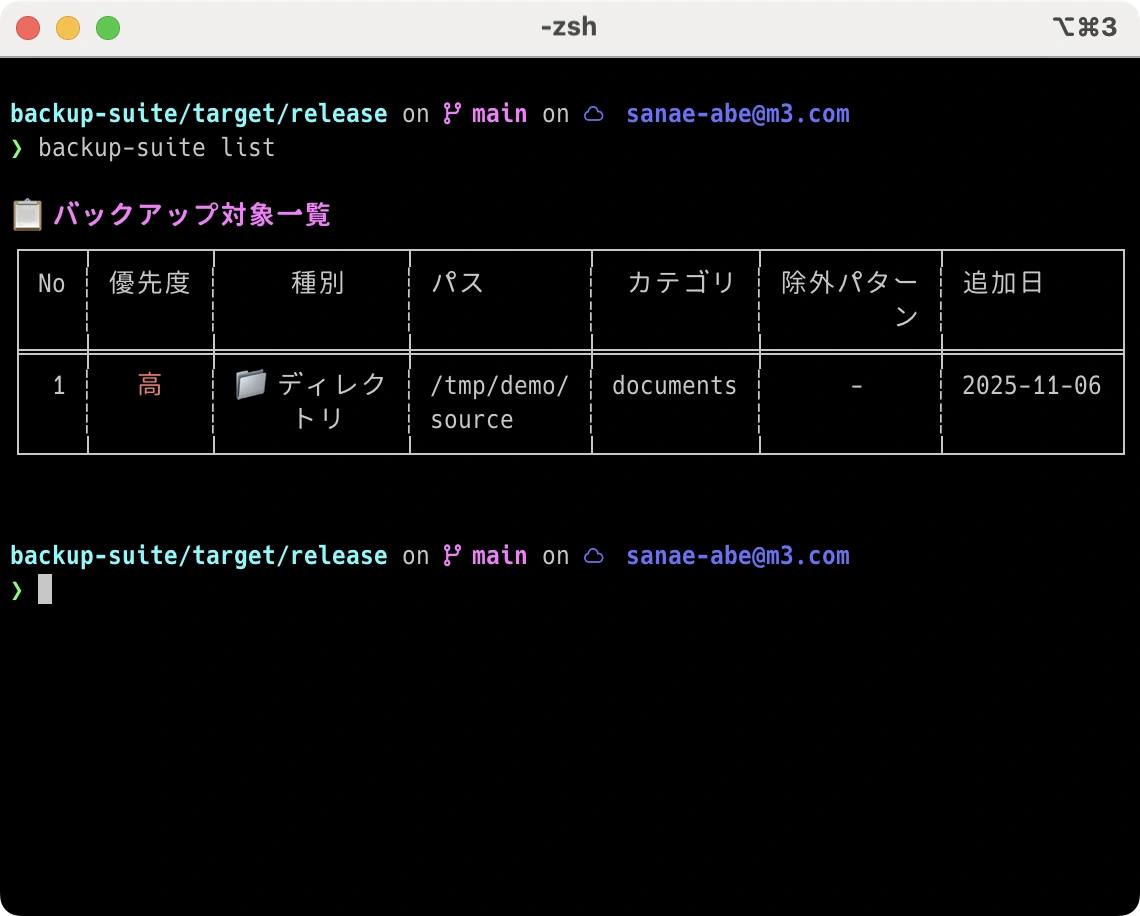
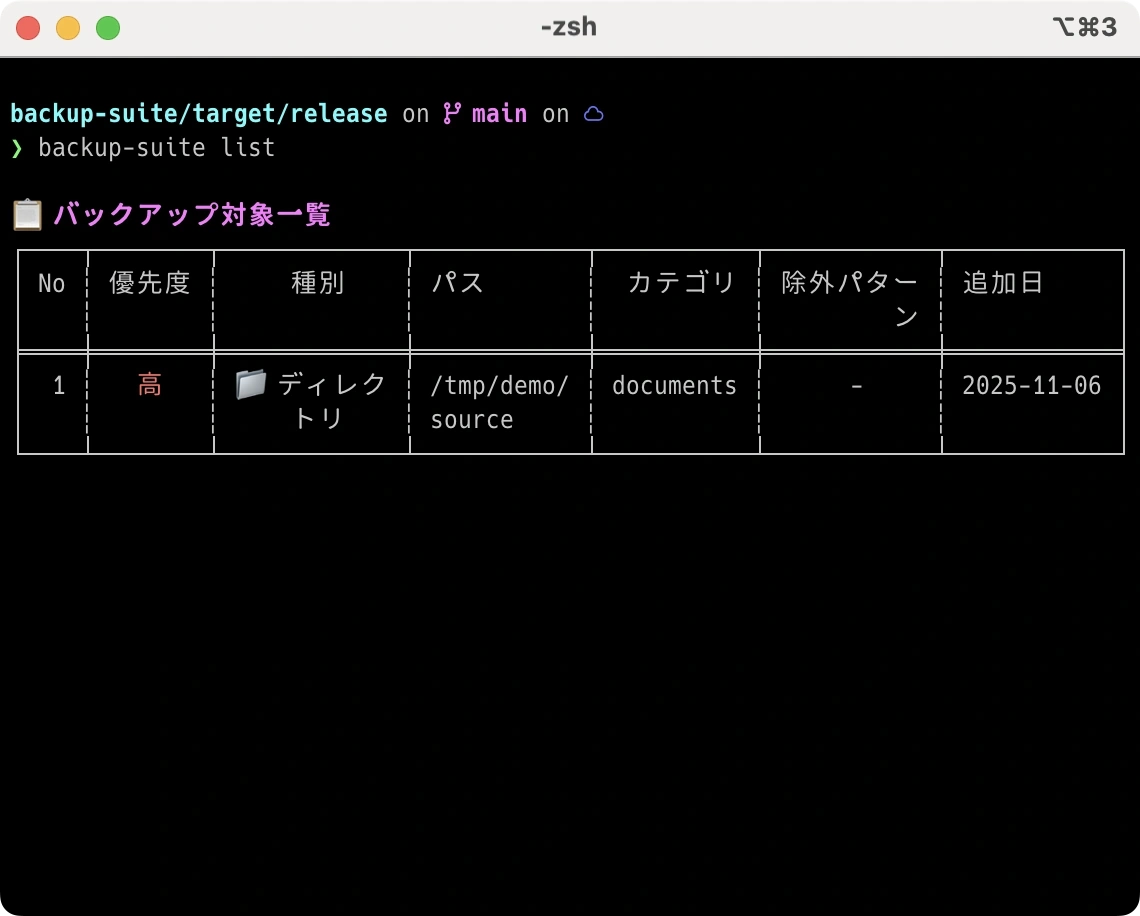
chore: スクリーンショット再更新 + rustfmt最適化
- スクリーンショット全更新（会社情報完全削除）
- WebP高品質変換（-q 95）
- rustfmt.tomlをstable版専用に簡略化

🤖 Generated with [Claude Code](https://claude.com/claude-code)

diff --git a/benches/backup_performance.rs b/benches/backup_performance.rs
@@ -4,16 +4,16 @@
 //! Criterionを使用して、継続的な性能監視と回帰検出を行います。
 
 use criterion::{black_box, criterion_group, criterion_main, BenchmarkId, Criterion, Throughput};
-use std::fs::{File, create_dir_all};
+use std::fs::{create_dir_all, File};
 use std::io::Write;
 use std::path::{Path, PathBuf};
 use tempfile::TempDir;
 
 use backup_suite::{
-    BackupRunner, Config, Target, Priority,
-    security::{safe_join, validate_path_safety},
     core::{CopyEngine, FileFilter},
+    security::{safe_join, validate_path_safety},
     ui::BackupProgress,
+    BackupRunner, Config, Priority, Target,
 };
 
 /// テストファイル作成ヘルパー
@@ -77,10 +77,11 @@ fn bench_file_copy(c: &mut Criterion) {
                     // 前回のコピー結果を削除
                     let _ = std::fs::remove_file(&dest);
 
-                    black_box(copy_engine.copy_file(
-                        black_box(&source),
-                        black_box(&dest)
-                    ).unwrap())
+                    black_box(
+                        copy_engine
+                            .copy_file(black_box(&source), black_box(&dest))
+                            .unwrap(),
+                    )
                 });
             },
         );
@@ -114,19 +115,12 @@ fn bench_parallel_backup(c: &mut Criterion) {
                 let mut config = Config::default();
                 config.backup.destination = backup_dir;
 
-                let target = Target::new(
-                    source_dir,
-                    Priority::High,
-                    "test".to_string()
-                );
+                let target = Target::new(source_dir, Priority::High, "test".to_string());
                 config.add_target(target);
 
-                let runner = BackupRunner::new(config, false)
-                    .with_progress(false); // ベンチマーク中はプログレス無効
+                let runner = BackupRunner::new(config, false).with_progress(false); // ベンチマーク中はプログレス無効
 
-                b.iter(|| {
-                    black_box(runner.run(None, None).unwrap())
-                });
+                b.iter(|| black_box(runner.run(None, None).unwrap()));
             },
         );
     }
@@ -143,12 +137,7 @@ fn bench_security_features(c: &mut Criterion) {
         let base = Path::new("/safe/backup/dir");
         let child = Path::new("documents/file.txt");
 
-        b.iter(|| {
-            black_box(safe_join(
-                black_box(base),
-                black_box(child)
-            ).unwrap())
-        });
+        b.iter(|| black_box(safe_join(black_box(base), black_box(child)).unwrap()));
     });
 
     // 複雑なパスでのsafe_join
@@ -156,21 +145,14 @@ fn bench_security_features(c: &mut Criterion) {
         let base = Path::new("/very/long/base/directory/path/for/backup/storage");
         let child = Path::new("deeply/nested/subdirectory/structure/with/many/levels/file.txt");
 
-        b.iter(|| {
-            black_box(safe_join(
-                black_box(base),
-                black_box(child)
-            ).unwrap())
-        });
+        b.iter(|| black_box(safe_join(black_box(base), black_box(child)).unwrap()));
     });
 
     // パス検証性能
     group.bench_function("validate_path_safety", |b| {
         let safe_path = Path::new("documents/projects/backup-suite/file.txt");
 
-        b.iter(|| {
-            validate_path_safety(black_box(safe_path)).unwrap()
-        });
+        b.iter(|| validate_path_safety(black_box(safe_path)).unwrap());
     });
 
     group.finish();
@@ -193,9 +175,7 @@ fn bench_file_filtering(c: &mut Criterion) {
                 let filter = FileFilter::new(&patterns).unwrap();
                 let test_file = Path::new("/path/to/document.txt");
 
-                b.iter(|| {
-                    black_box(filter.should_exclude(black_box(test_file)))
-                });
+                b.iter(|| black_box(filter.should_exclude(black_box(test_file))));
             },
         );
     }
@@ -218,15 +198,13 @@ fn bench_config_operations(c: &mut Criterion) {
             let target = Target::new(
                 PathBuf::from(format!("/test/path/{}", i)),
                 Priority::Medium,
-                format!("category_{}", i)
+                format!("category_{}", i),
             );
             config.add_target(target);
         }
         config.save().unwrap();
 
-        b.iter(|| {
-            black_box(Config::load().unwrap())
-        });
+        b.iter(|| black_box(Config::load().unwrap()));
     });
 
     // 設定保存性能
@@ -239,14 +217,12 @@ fn bench_config_operations(c: &mut Criterion) {
             let target = Target::new(
                 PathBuf::from(format!("/test/path/{}", i)),
                 Priority::Medium,
-                format!("category_{}", i)
+                format!("category_{}", i),
             );
             config.add_target(target);
         }
 
-        b.iter(|| {
-            config.save().unwrap()
-        });
+        b.iter(|| config.save().unwrap());
     });
 
     group.finish();
@@ -259,7 +235,10 @@ fn bench_directory_traversal(c: &mut Criterion) {
     // 異なる深度・ファイル数での走査性能
     for (depth, files_per_dir) in [(3, 10), (4, 5), (5, 3)].iter() {
         group.bench_with_input(
-            BenchmarkId::new("walkdir", format!("depth_{}_files_{}", depth, files_per_dir)),
+            BenchmarkId::new(
+                "walkdir",
+                format!("depth_{}_files_{}", depth, files_per_dir),
+            ),
             &(depth, files_per_dir),
             |b, &(depth, files_per_dir)| {
                 let temp_dir = TempDir::new().unwrap();
@@ -272,7 +251,10 @@ fn bench_directory_traversal(c: &mut Criterion) {
                 b.iter(|| {
                     use walkdir::WalkDir;
                     let mut count = 0;
-                    for entry in WalkDir::new(black_box(&test_dir)).into_iter().filter_map(|e| e.ok()) {
+                    for entry in WalkDir::new(black_box(&test_dir))
+                        .into_iter()
+                        .filter_map(|e| e.ok())
+                    {
                         if entry.file_type().is_file() {
                             count += 1;
                         }
@@ -294,9 +276,7 @@ fn bench_progress_display(c: &mut Criterion) {
     group.bench_function("progress_update", |b| {
         let progress = BackupProgress::new(1000);
 
-        b.iter(|| {
-            progress.inc(black_box(1))
-        });
+        b.iter(|| progress.inc(black_box(1)));
     });
 
     // メッセージ付きプログレス更新
@@ -336,19 +316,12 @@ fn bench_end_to_end(c: &mut Criterion) {
         let mut config = Config::default();
         config.backup.destination = backup_dir;
 
-        let target = Target::new(
-            source_dir,
-            Priority::High,
-            "documents".to_string()
-        );
+        let target = Target::new(source_dir, Priority::High, "documents".to_string());
         config.add_target(target);
 
-        let runner = BackupRunner::new(config, false)
-            .with_progress(false);
+        let runner = BackupRunner::new(config, false).with_progress(false);
 
-        b.iter(|| {
-            black_box(runner.run(None, None).unwrap())
-        });
+        b.iter(|| black_box(runner.run(None, None).unwrap()));
     });
 
     group.finish();
@@ -373,19 +346,12 @@ fn bench_memory_usage(c: &mut Criterion) {
         let mut config = Config::default();
         config.backup.destination = backup_dir;
 
-        let target = Target::new(
-            source_dir,
-            Priority::High,
-            "large_set".to_string()
-        );
+        let target = Target::new(source_dir, Priority::High, "large_set".to_string());
         config.add_target(target);
 
-        let runner = BackupRunner::new(config, false)
-            .with_progress(false);
+        let runner = BackupRunner::new(config, false).with_progress(false);
 
-        b.iter(|| {
-            black_box(runner.run(None, None).unwrap())
-        });
+        b.iter(|| black_box(runner.run(None, None).unwrap()));
     });
 
     group.finish();

diff --git a/benches/crypto_benchmark.rs b/benches/crypto_benchmark.rs
@@ -2,9 +2,9 @@
 //!
 //! backup-suiteの暗号化・圧縮機能の性能を測定します。
 
-use criterion::{black_box, criterion_group, criterion_main, BenchmarkId, Criterion, Throughput};
+use backup_suite::compression::{CompressionConfig, CompressionEngine, CompressionType};
 use backup_suite::crypto::{EncryptionEngine, KeyManager};
-use backup_suite::compression::{CompressionEngine, CompressionType, CompressionConfig};
+use criterion::{black_box, criterion_group, criterion_main, BenchmarkId, Criterion, Throughput};
 
 /// 暗号化性能ベンチマーク
 fn bench_encryption(c: &mut Criterion) {
@@ -23,7 +23,11 @@ fn bench_encryption(c: &mut Criterion) {
                 let engine = EncryptionEngine::default();
 
                 b.iter(|| {
-                    black_box(engine.encrypt(black_box(&data), black_box(&master_key), black_box(salt)).unwrap())
+                    black_box(
+                        engine
+                            .encrypt(black_box(&data), black_box(&master_key), black_box(salt))
+                            .unwrap(),
+                    )
                 });
             },
         );
@@ -50,7 +54,11 @@ fn bench_decryption(c: &mut Criterion) {
                 let encrypted_data = engine.encrypt(&data, &master_key, salt).unwrap();
 
                 b.iter(|| {
-                    black_box(engine.decrypt(black_box(&encrypted_data), black_box(&master_key)).unwrap())
+                    black_box(
+                        engine
+                            .decrypt(black_box(&encrypted_data), black_box(&master_key))
+                            .unwrap(),
+                    )
                 });
             },
         );
@@ -79,9 +87,7 @@ fn bench_compression(c: &mut Criterion) {
                     };
                     let engine = CompressionEngine::new(comp_type, config);
 
-                    b.iter(|| {
-                        black_box(engine.compress(black_box(&data)).unwrap())
-                    });
+                    b.iter(|| black_box(engine.compress(black_box(&data)).unwrap()));
                 },
             );
         }
@@ -111,9 +117,7 @@ fn bench_decompression(c: &mut Criterion) {
                     let engine = CompressionEngine::new(comp_type, config);
                     let compressed_data = engine.compress(&data).unwrap();
 
-                    b.iter(|| {
-                        black_box(engine.decompress(black_box(&compressed_data)).unwrap())
-                    });
+                    b.iter(|| black_box(engine.decompress(black_box(&compressed_data)).unwrap()));
                 },
             );
         }
@@ -126,7 +130,11 @@ fn bench_decompression(c: &mut Criterion) {
 fn bench_key_derivation(c: &mut Criterion) {
     let mut group = c.benchmark_group("key_derivation");
 
-    let passwords = ["short", "medium_length_password", "very_long_password_with_many_characters_for_testing"];
+    let passwords = [
+        "short",
+        "medium_length_password",
+        "very_long_password_with_many_characters_for_testing",
+    ];
 
     for password in passwords {
         group.bench_with_input(
@@ -135,9 +143,7 @@ fn bench_key_derivation(c: &mut Criterion) {
             |b, &password| {
                 let key_manager = KeyManager::default();
 
-                b.iter(|| {
-                    black_box(key_manager.create_master_key(black_box(password)).unwrap())
-                });
+                b.iter(|| black_box(key_manager.create_master_key(black_box(password)).unwrap()));
             },
         );
     }
